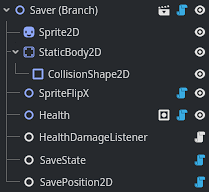
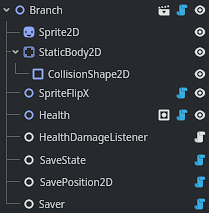
update docs

diff --git a/README.md b/README.md
@@ -44,7 +44,7 @@ Save System that supports automatic or manual saving and loading of instanced an
 
 ### Setup of a Saveable Scene
 
-1. All saveable scenes require a `Saver` node as the scene root.
+1. All saveable scenes require a `Saver` node.
 2. All saveable nodes must be `[Tool]` scripts. Saveable nodes in this example are `SpriteFlipX`, `Health`, `SaveState`, and `SavePosition2D`.
 3. `SaveState` and `SavePosition2D` are included in this repository. `SaveState` will save if its parent is inside the SceneTree. `SavePosition2D` will save its parent's 2D position.
 
